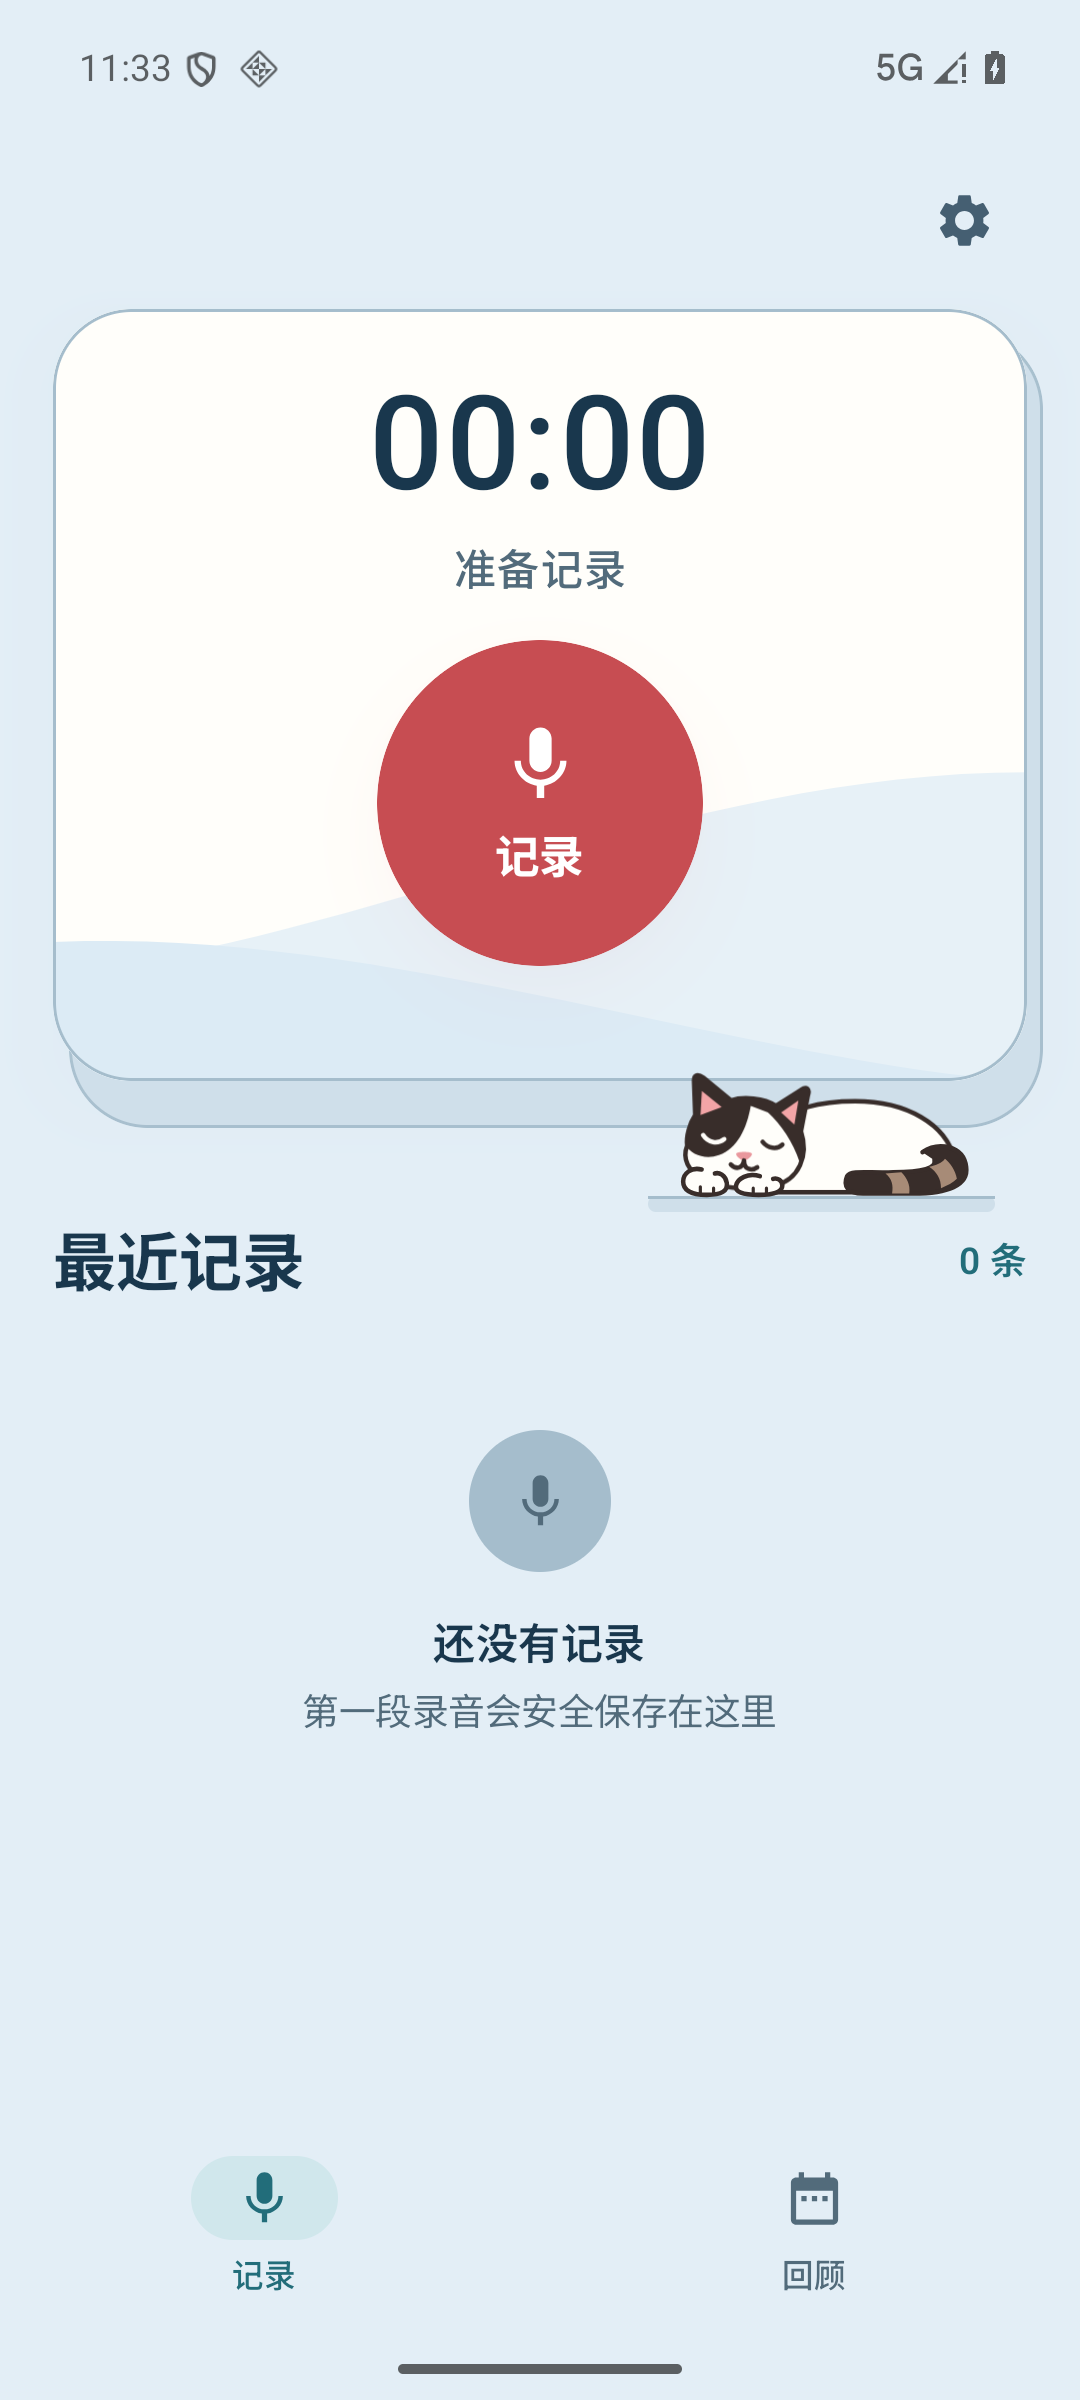
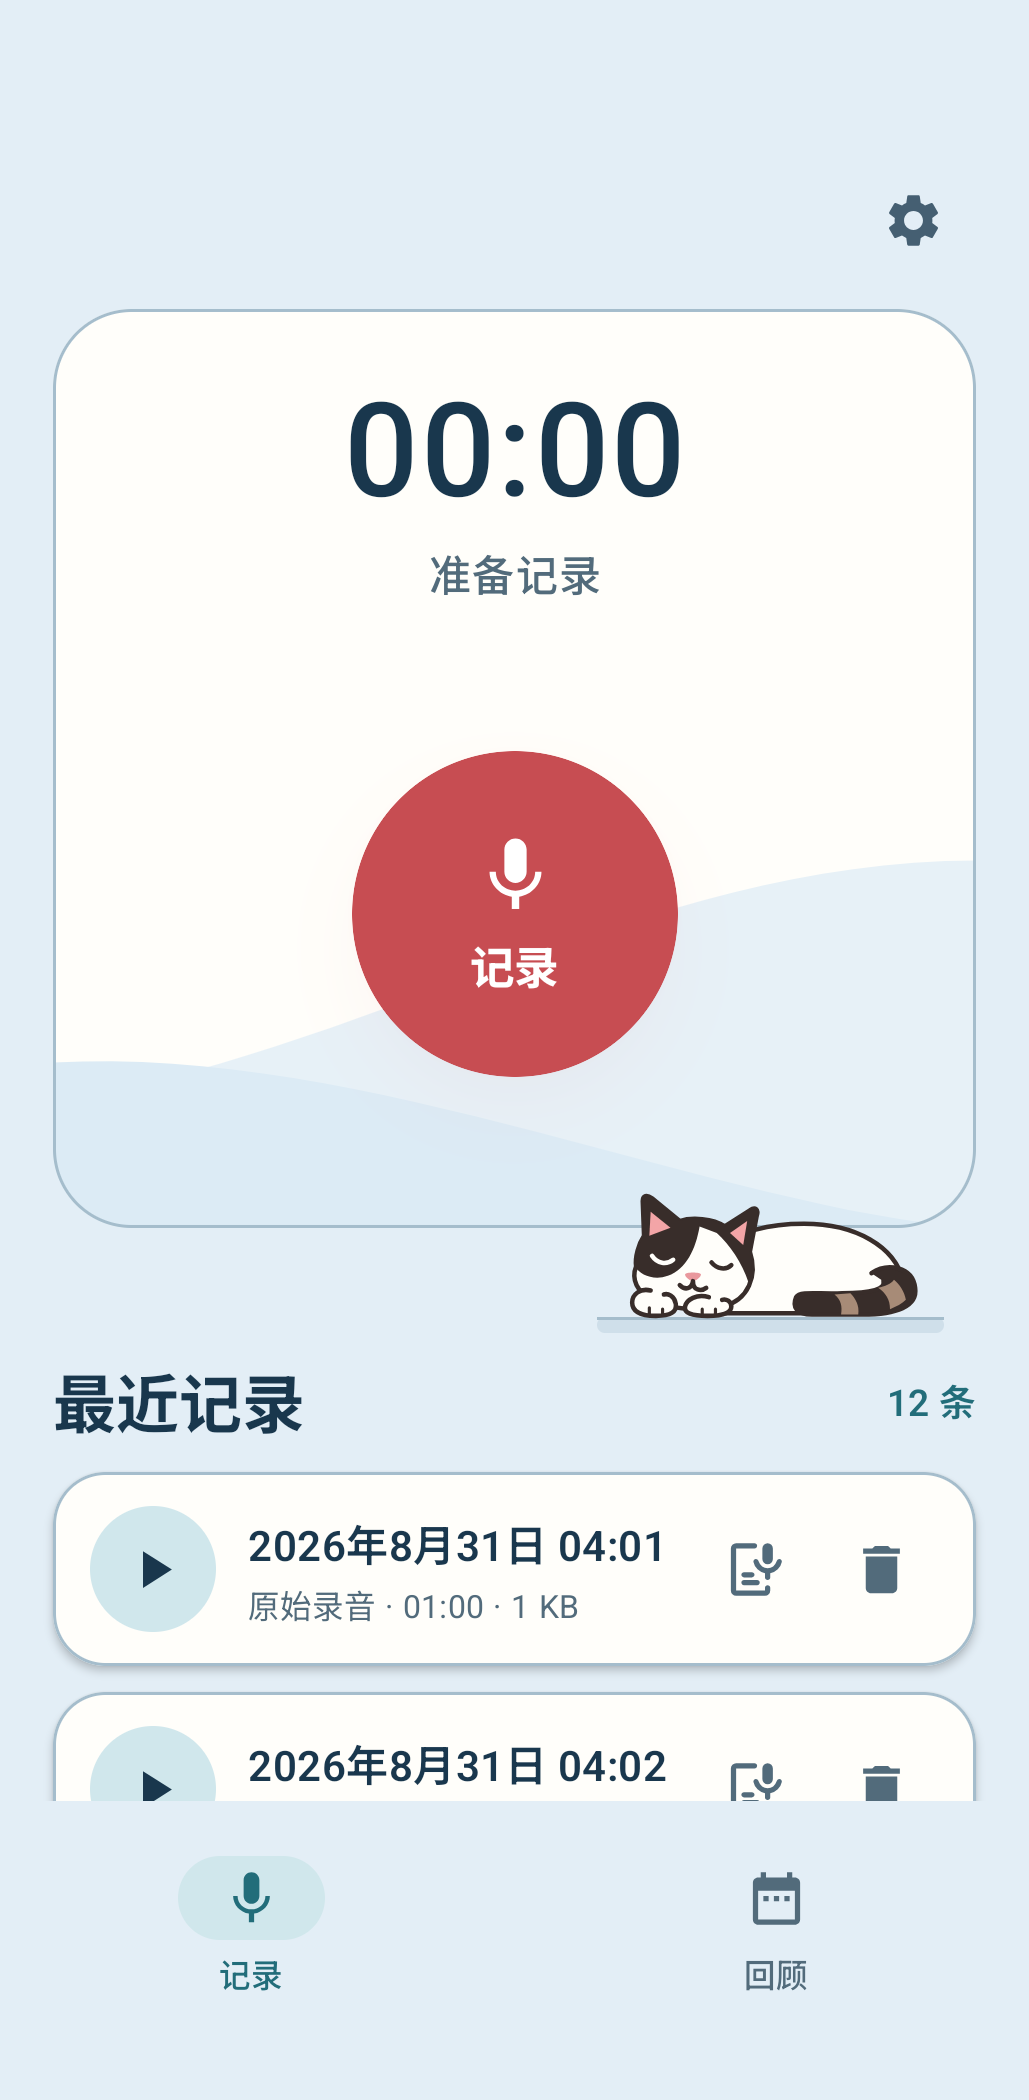
更新两页布局预览与覆盖安装验证记录

diff --git a/docs/VERIFICATION.md b/docs/VERIFICATION.md
@@ -2,33 +2,37 @@
 
 ## 当前源码与已发布安装包
 
-核对日期：2026-10-19。本次核对源码、已有验证记录和发布状态，没有重新运行测试、构建或设备验收。下列历史测量只适用于各节注明的日期和构建。
+核对日期：2026-10-22。下列测量只适用于各节注明的日期和构建；本次文档更新核对已有证据，没有重新运行测试或构建。
 
 | 对象 | 版本与状态 | 证据边界 |
 |---|---|---|
-| 本次核对的 `main` 源码 | `78416b3`，`0.1.3-community` / code 5；已合入 [PR #1](https://github.com/qinjunw/DailyM/pull/1) | 包含 Release JNI 修复、喵记 / DailyM 显示名称和紧凑首页；0.1.3 未发布安装包 |
+| 核对时的 `main` 源码 | `fdd2fae`，`0.1.3-community` / code 5；已合入 [PR #1](https://github.com/qinjunw/DailyM/pull/1) 与文档 [PR #2](https://github.com/qinjunw/DailyM/pull/2) | 包含 Release JNI 修复、喵记 / DailyM 显示名称和紧凑首页；0.1.3 未发布安装包 |
+| 布局实现源码 | `4772c7e`，[PR #3](https://github.com/qinjunw/DailyM/pull/3)，`0.1.3-community` / code 5 | 记录与回顾页对齐、小屏大字状态标记修复；已有模拟器布局检查及实机覆盖安装与启动记录，未发布对应 APK |
 | 最新已发布预发布版 | [v0.1.2-community](https://github.com/qinjunw/DailyM/releases/tag/v0.1.2-community)，2026-09-13，code 4 | 仍是 PerContext Community 名称和旧页头，不包含 0.1.3 的 JNI 保留修复 |
 
 已发布的 0.1.2 不能因源码版本升级而视为已修复。需要 JNI 修复时应从当前源码构建，并对实际 Release 安装包验证；下载 0.1.2 不会获得此修复。仓库更名不改变既有 Release 资产文件名。
 
-10 月 8 日的修复包有真机既有录音转写和 DeepSeek 回顾通过记录；10 月 18 日的品牌与页头构建只完成独立模拟器安装及制品检查，未重跑真机主链。首次断网模型安装、新录音完整闭环、不同 OEM、最新品牌包的覆盖升级和其他自定义服务的真实调用仍需针对交付版本补充证据。
+10 月 8 日的修复包有真机既有录音转写和 DeepSeek 回顾通过记录；10 月 18 日的品牌与页头构建完成独立模拟器安装及制品检查；10 月 22 日的布局包完成实机覆盖安装与基础启动。后两次没有重跑真机业务主链。首次断网模型安装、新录音完整闭环、不同 OEM 和其他自定义服务的真实调用仍需针对交付版本补充证据。
 
-## 记录页与回顾页布局（2026-10-22 本地候选）
+## 记录页与回顾页布局（2026-10-22）
 
-本节对应基于 `fdd2fae` 的本地分支 `codex/align-record-review-layout`，包含在 `42dfaac` 之后补充的日期状态标记修复，尚未合入 `main` 或发布。包名、签名配置、`0.1.3-community` 版本及版本代码 5 保持不变。
+本节对应基于 `fdd2fae` 的布局实现 `4772c7e`，包含统一布局及日期状态标记修复。关联缺陷为 [Issue #4](https://github.com/qinjunw/DailyM/issues/4)，变更与合入状态见 [PR #3](https://github.com/qinjunw/DailyM/pull/3)。包名、签名配置、`0.1.3-community` 版本及版本代码 5 保持不变，尚未发布对应 APK。
 
 两页使用同一页头、主面板外框和皮蛋平台。记录页移除偏移背板，回顾页将“回顾”标签及选中日期放在皮蛋下方。小屏和大字体下，主面板内部可滚动，六周日历及录音控件保留自然内容高度；下方录音列表与回顾详情独立滚动，切页保留各页位置和选中日期。
 
 - 使用 `:app:testDebugUnitTest --rerun` 重新执行 173 项 JVM 测试，失败、错误及跳过均为 0。
 - Debug、Release 构建及 Lint 通过；两种 Lint 均为 0 错误、22 警告。
 - Android 16（API 36）模拟器上的独立测试安装使用 `com.percontext.community.layoutalignqa` 包名和合成内容。[布局用例](../app/src/androidTest/java/com/percontext/app/feature/app/RecordReviewLayoutTest.kt)的 5 项测试通过，覆盖实际 `PerContextApp` 导航、12 条记录的中段滚动、回顾详情滚动、切页恢复、设置返回和状态标记。
+- 独立复审重新构建 `4772c7e` 的测试安装并复跑上述 5 项布局测试，结果通过；这 5 项与下述 25 项既有用例合计 30 项，复跑不增加用例数。
 - 另有 25 项既有界面与资源测试通过，包括实际 MainActivity 的状态栏避让和设置返回、录音及回顾交互、默认及中英文名称和许可入口。六套主题下，日历选中日期、普通日期、图例及左右月份箭头的文字对比度均达到 4.5:1。
 - 在同一 420 dpi 密度、晴空奶白浅色主题下，分别采集 392 × 800 dp / 1.0 倍字体及 360 × 480 dp / 1.6 倍字体的截图和原生节点坐标。各自尺寸组内，设置触控框、主面板四边、皮蛋容器和平台的最大坐标差均为 0 dp；截图直边像素复核的主面板最大差为 0 px。
-- 小屏用例选择 2026 年 8 月第六周的 31 日，检查月份切换、图例、当天录音来源和生成入口均可通过滚动到达。修复前此条件下的状态圆点实际为 13 × 4 px；按真实文字高度及逐项取整的像素计算日格后，选中／未选中、有录音／已有回顾的四种标记均为完整的 13 × 13 px，中心分别匹配录音或回顾颜色。
+- 小屏用例选择 2026 年 8 月第六周的 31 日，检查月份切换、图例、当天录音来源和生成入口均可通过滚动到达。`42dfaac` 的旧几何加观测代码在此条件下测得状态圆点为 13 × 4 px；按真实文字高度及逐项取整的像素计算日格后，选中／未选中、有录音／已有回顾的四种标记均为完整的 13 × 13 px，中心分别匹配录音或回顾颜色。
 - 录音状态用例覆盖启动、100 小时时长及高输入音量、停止、长错误文案和空闲。348 字符合成错误的全文语义值一致，首尾字符可完整滚入面板；小屏记录及回顾面板的非零滚动位置在切页或设置返回后保留。
 - 高音量波纹另采集 5 个受控时钟帧，控件内部像素随动画变化，操作区域外 6 dp 检查带内未出现超过 2 个 RGB 单位的帧间变化。此采样不代表所有动画帧或检查带以外区域均已验证。
 
-本次未向实体手机安装，未验证真实麦克风、离线模型推理、云端回顾或用户数据覆盖升级。小屏的录音按钮和部分日期需要在主面板内滚动后操作；外框及皮蛋平台保持固定。上述模拟器结果不证明其他机型或发布安装包通过验收。
[1 lines of base64/hex data omitted]
+
+实机检查限于覆盖安装与基础启动，未读取或比对既有录音、转写、回顾和设置内容，未验证数据内容完整性、真实麦克风、离线模型推理或云端回顾。小屏的录音按钮和部分日期需要在主面板内滚动后操作；外框及皮蛋平台保持固定。上述检查不证明其他机型或完整业务流程通过验收。标准屏的两页布局截图见 [截图说明](screenshots/README.md)。
 
 ## 显示名称与首页页头（0.1.3 本地构建）
 

diff --git a/README.md b/README.md
@@ -8,11 +8,11 @@
 
 ## 界面预览
 
-| 记录首页 | 模型服务与关于 |
+| 记录首页 | 回顾日历 |
 | --- | --- |
-| <img src="docs/screenshots/record-home-zh-CN.png" width="260" alt="喵记记录首页：录音按钮、皮蛋和空的最近记录列表"> | <img src="docs/screenshots/settings-about-zh-CN.png" width="260" alt="喵记设置页下半部：模型服务配置、空的 Key 输入框和关于信息"> |
+| <img src="docs/screenshots/record-home-zh-CN.png" width="260" alt="喵记记录首页：录音主面板、皮蛋和合成录音列表"> | <img src="docs/screenshots/review-calendar-zh-CN.png" width="260" alt="喵记回顾页：与首页对齐的设置按钮、月历主面板和皮蛋，下面是所选日期与合成回顾"> |
 
-截图来自 2026-10-18 的 Android 16 模拟器独立测试安装，展示已进入主干的 `0.1.3` 界面；使用空白测试数据，不含私人记录或 API Key。它们不是已发布的 `0.1.2` APK 截图，来源见 [截图说明](docs/screenshots/README.md)。
+预览来自 2026-10-22 的 Android 16 模拟器独立测试安装，对应 `4772c7e` 的布局实现（[PR #3](https://github.com/qinjunw/DailyM/pull/3)）。两图均为 392 × 800 dp 的测试视口截图，使用合成录音与回顾，不含私人记录或 API Key；不代表已发布的 `0.1.2` APK。设置页截图及各图来源见 [截图说明](docs/screenshots/README.md)。
 
 ## 当前功能
 
@@ -30,7 +30,7 @@
 
 | 版本 | 获取方式 | 差异与状态 |
 | --- | --- | --- |
-| 主干 `0.1.3-community` / code 5 | [从源码构建](#从源码构建) | 包含“喵记 / DailyM”命名、紧凑首页和 Release 离线转写修复；尚未发布对应 APK |
+| 本目录源码 `0.1.3-community` / code 5 | [从源码构建](#从源码构建) | 包含“喵记 / DailyM”命名、记录与回顾页布局对齐及 Release 离线转写修复；尚未发布对应 APK |
 | 已发布 `0.1.2-community` / code 4 | [Release](https://github.com/qinjunw/DailyM/releases/tag/v0.1.2-community) · [ARM64 APK](https://github.com/qinjunw/DailyM/releases/download/v0.1.2-community/PerContext-Community-0.1.2-arm64.apk) · [SHA256SUMS.txt](https://github.com/qinjunw/DailyM/releases/download/v0.1.2-community/SHA256SUMS.txt) | 预发布，仍为旧品牌和旧首页；不含主干的 JNI 修复 |
 
 **已知问题：** 已发布 `0.1.2` 的 Release 混淆可能使 SenseVoice 在初始化时出现 `NoSuchFieldError`，导致离线转写失败。主干 `0.1.3` 已加入原生接口保留规则；需要此修复时请从源码构建。两者均内置离线模型，详细故障与验证范围见 [验证记录](docs/VERIFICATION.md)。
@@ -41,7 +41,7 @@
 
 ## 使用
 
-**录音和离线转写无需 API Key；Key 仅用于生成每日回顾。** 以下步骤按主干 `0.1.3` 的行为说明。
+**录音和离线转写无需 API Key；Key 仅用于生成每日回顾。** 以下步骤按本目录 `0.1.3` 源码的行为说明。
 
 1. 打开 App，点击「记录」并授予麦克风权限；Android 6–9 还需授予存储权限。Android 13 及以上会申请通知权限，用于显示录音状态；拒绝通知权限仍可录音。停止后，录音出现在时间线。
 2. 点击录音的转写按钮。首次转写会把 APK 内的模型校验并安装到应用私有目录，随后离线识别。
@@ -50,6 +50,8 @@
 5. 保存后打开「回顾」，选择有成功转写的日期，点击生成当天回顾。月历标记“有录音”不代表当天已完成转写。
 
 原始转写是首次成功识别的快照，当前不能编辑或重新转写成功结果。每天只保存一份当前回顾，刷新成功会替换它；来源改变时会提示确认已备份，但 App 目前尚无完整导出与恢复功能。
+
+记录页与回顾页的设置按钮、主面板和皮蛋平台保持相同位置；“回顾”标签与所选日期位于皮蛋下方。小屏或大字体下，可在主面板内滚动访问录音控件及完整月历，下方记录列表与日期详情单独滚动；切页或从设置返回时保留各页滚动位置。
 
 在「设置 → 外观」选择主题与显示模式，选择后自动生效，无需点击模型服务的「保存设置」。默认使用晴空奶白并跟随系统；外观设置与模型服务配置分开保存。
 
@@ -80,6 +82,12 @@
 ```sh
 git clone https://github.com/qinjunw/DailyM.git
 cd DailyM
+```
+
+复现本页布局预览时，在获取模型与构建前检出固定的界面实现提交（合入状态见 [PR #3](https://github.com/qinjunw/DailyM/pull/3)）：
+
+```sh
+git checkout 4772c7e9d81c70395c91cc6144b308af244a3b64
 ```
 
 先获取固定模型包：

diff --git a/docs/screenshots/README.md b/docs/screenshots/README.md
@@ -1,12 +1,28 @@
 # 界面截图
 
-以下文件是 Android 16 模拟器中独立测试安装的原始截图，采集于 2026-10-18。界面代码对应提交 `261fc813b9b79eba1e5873acbaca840144f64b3c`，测试包名为 `com.percontext.community.brandingqa`，显示版本为 `0.1.3-community-brandingqa`。
+## 记录页与回顾日历
+
+采集日期为 2026-10-22，界面实现对应 `4772c7e9d81c70395c91cc6144b308af244a3b64`（[PR #3](https://github.com/qinjunw/DailyM/pull/3)）。Android 16（API 36）模拟器中的独立测试安装包名为 `com.percontext.community.layoutalignqa`，版本为 `0.1.3-community-layoutalignqa`。
 
 | 文件 | 画面 | 尺寸 |
 | --- | --- | --- |
-| [record-home-zh-CN.png](record-home-zh-CN.png) | 中文记录首页，最近记录为空，旧品牌标题及副标题已移除 | 1080 × 2400 |
+| [record-home-zh-CN.png](record-home-zh-CN.png) | 记录首页：录音主面板、皮蛋平台及 12 条合成录音的列表 | 1029 × 2100 |
+| [review-calendar-zh-CN.png](review-calendar-zh-CN.png) | 回顾页：2026 年 8 月六周月历，选中 31 日，所选日期及合成回顾位于皮蛋下方 | 1029 × 2100 |
+
+两图由 [RecordReviewLayoutTest](../../app/src/androidTest/java/com/percontext/app/feature/app/RecordReviewLayoutTest.kt) 捕获 `layout_test_viewport` 节点，使用实际 `PerContextApp` 页面、合成录音与回顾及业务网关替身。测试视口为 392 × 800 dp，密度 420 dpi，字体缩放 1.0，主题为晴空奶白浅色；不含系统状态栏或导航栏。文件保留原始像素，未另行裁切、缩放或重绘。
+
+## 模型服务与关于
+
+采集日期为 2026-10-18，界面代码对应 `261fc813b9b79eba1e5873acbaca840144f64b3c`。测试包名为 `com.percontext.community.brandingqa`，显示版本为 `0.1.3-community-brandingqa`。
+
+| 文件 | 画面 | 尺寸 |
+| --- | --- | --- |
 | [settings-about-zh-CN.png](settings-about-zh-CN.png) | 中文设置页下半部，展示模型服务与关于；API Key 为空 | 1080 × 2400 |
 
-截图来自空白测试数据，未读取用户手机，没有私人录音、转写或凭据；图像未经裁切、缩放或重绘。它们展示主干的 `0.1.3` 界面，不代表已发布的 `0.1.2` APK，也不作为麦克风录音、真实离线推理或云端回顾已经通过的证据。
+设置页图像为模拟器的原始完整截图，使用空白测试数据，未经裁切、缩放或重绘；它不展示本次布局修复。
+
+## 使用边界
+
+以上图像均来自独立模拟器测试安装，没有私人录音、转写或凭据；不代表已发布的 `0.1.2` APK，也不作为真实麦克风录音、离线推理或云端回顾通过的证据。布局测量、测试和实机安装启动的范围见 [验证记录](../VERIFICATION.md)。
 
 更新截图时使用专门的模拟器或测试安装，记录界面提交和采集日期，检查版本与 README 的描述一致，并确认没有私人内容或 Key 后再提交。
